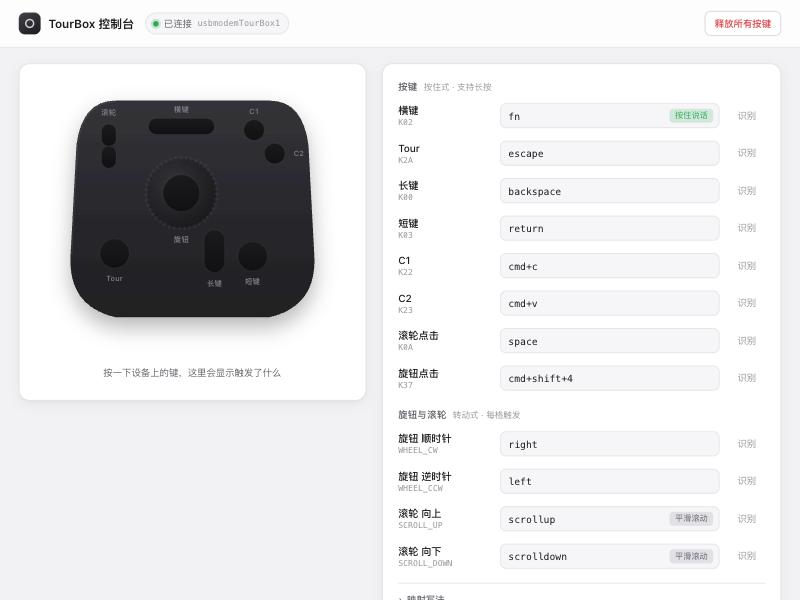
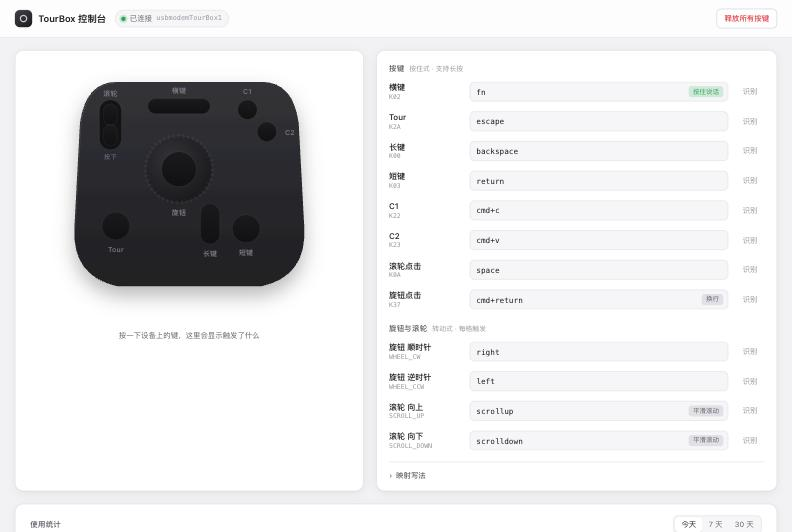
README：写清默认键位方案及每个键这么设的理由；按键统计章节改为「找出最值得映射的按键」，附截图与推荐用法

diff --git a/README.md b/README.md
@@ -15,7 +15,7 @@
 - **按住连发**：映射成单键（如 `backspace`）后，按住会像真键盘一样连续触发
 - **触控板式平滑滚动**：滚轮按「格」计算距离，按像素逐帧输出，带手势相位和惯性
 - **本地可视化控制台** `http://127.0.0.1:8777/`：设备俯视图、实时按键高亮、点一下就能改映射、「识别」向导
-- **按键统计**：每天按了哪些快捷键、功能键，键盘和 TourBox 分开计数，控制台里看排行和 24 小时分布，并标出「常用但 TourBox 上还没有」的组合，方便决定该映射什么（见下文「按键统计」）
+- **按键统计**：用自己的真实数据看出哪些按键用得最多、最应该映射到 TourBox 上。键盘和 TourBox 分开计数，标出「常用但还没映射」的操作和闲置的实体键（见下文「按键统计」）
 - **防卡键**：串口断开、进程退出、长时间收不到松开信号时会自动松开所有按键；控制台里也有「释放所有按键」按钮
 - **常驻运行**：作为 launchd 登录项运行，崩溃后自动拉起；设备拔掉再插上会自动重连
 
@@ -114,19 +114,28 @@ python3 tourboxd.py       # 无界面
 
 > 旋钮和滚轮转动时设备只发脉冲、不发「松开」，所以别把它们映射成 `fn` 这类按住式按键。
 
-### 默认键位
+### 默认键位（预设方案）
 
-| 位置 | 字节 | 默认映射 |
-|---|---|---|
-| 横键 | `K02` | `fn`（按住说话） |
-| 长键 | `K00` | `backspace` |
-| 短键 | `K03` | `return` |
-| C1 / C2 | `K22` / `K23` | `cmd+c` / `cmd+v` |
-| Tour | `K2A` | `escape` |
-| 滚轮点击 | `K0A` | `space` |
-| 旋钮点击 | `K37` | `cmd+return`（输入框里换行：微信、飞书、ChatGPT 等「回车发送」的输入框） |
-| 旋钮 顺/逆 | `WHEEL_CW` / `WHEEL_CCW` | `right` / `left` |
-| 滚轮 上/下 | `SCROLL_UP` / `SCROLL_DOWN` | `scrollup` / `scrolldown` |
+这套预设的目标场景是：**一只手放在 TourBox 上，配合语音输入和 AI 对话框完成日常打字和浏览**。尽量让另一只手不用回到键盘上。
+
+| 位置 | 字节 | 默认映射 | 为什么这么设 |
+|---|---|---|---|
+| 横键 | `K02` | `fn`（按住说话） | 用得最多的动作，放在最宽、拇指最容易压住的键上；按住说话、松手结束，长时间按住也不费力 |
+| 长键 | `K00` | `backspace` | 说完话最常做的就是删掉识别错的字；长键面积大、好盲按，按住会像真键盘一样连续删除 |
+| 短键 | `K03` | `return` | 紧挨着长键，「删 → 确认 / 发送」是一组连贯动作，手指不用挪位置 |
+| 旋钮点击 | `K37` | `cmd+return` | 微信、飞书、ChatGPT、Claude 这类「回车发送」的输入框里，Cmd+回车 是换行。放在设备正中间，和短键的「回车发送」分开，不会误发 |
+| C1 / C2 | `K22` / `K23` | `cmd+c` / `cmd+v` | 复制粘贴几乎是所有人用得最多的快捷键；两个小圆键挨在一起，按位置一左一右、一前一后，好记 |
+| Tour | `K2A` | `escape` | 取消、关闭弹窗、退出全屏，都是 Esc；放在左下角，偶尔用、不容易误碰 |
+| 滚轮点击 | `K0A` | `space` | 看视频暂停 / 播放、网页翻页、输入法选第一个候选词，都是空格 |
+| 旋钮 顺/逆 | `WHEEL_CW` / `WHEEL_CCW` | `right` / `left` | 转旋钮移动光标，修改语音识别结果时比鼠标点更准；分频 4，转一下大约移动一格 |
+| 滚轮 上/下 | `SCROLL_UP` / `SCROLL_DOWN` | `scrollup` / `scrolldown` | 和鼠标滚轮直觉一致，按像素平滑滚动，手感接近触控板 |
+
+背后的取舍：
+
+- **高频动作放在大键和顺手的位置**：按住说话、删除、发送这三个动作占了日常操作的大头，所以给了横键、长键、短键
+- **不放「按一下就很难撤回」的操作**：比如 `cmd+w` 关窗口、`cmd+q` 退出，误碰代价太高
+- **旋钮和滚轮只放「转多了也没关系」的动作**：它们只发脉冲、没有松开信号，不适合放按住式按键
+- **这只是起点**：每个人的习惯不一样，用一周「按键统计」之后，按自己的数据调整最合适（见下文）
 
 ### 其他可调参数（`config.json`）
 
@@ -140,9 +149,26 @@ python3 tourboxd.py       # 无界面
 | `repeat_delay` / `repeat_interval` | 0.42 / 0.032 | 按住连发的延迟和间隔（秒） |
 | `stats` | true | 按键统计开关 |
 
-## 按键统计
+## 按键统计：找出最值得映射到 TourBox 的按键
 
-驱动在后台用一个**只读**的事件监听（不拦截、不修改任何按键）统计你每天按了什么，控制台底部「使用统计」可以按今天 / 7 天 / 30 天查看。
+TourBox 只有 12 个控件，放什么最划算，不该靠感觉猜。网上也没有靠谱的「大家最常用哪些键」的公开数据，况且每个人差别很大：经常用语音输入、天天在 AI 对话框里来回发消息的人，和写代码、修图的人，高频按键完全不一样。
+
+所以驱动内置了按键统计，**用你自己的真实数据告诉你哪些键用得最多、最应该放到设备上**。控制台底部「使用统计」可以按今天 / 7 天 / 30 天查看：
+
+| 区域 | 能看出什么 |
+|---|---|
+| 顶部数字 | 总按键数、快捷键 / 功能键、普通打字、其中 TourBox 按的有多少 |
+| 快捷键排行 | 用得最多的快捷键和功能键。灰色是键盘按的，蓝色是 TourBox 按的。已经在 TourBox 上的标「已映射」，**常用但还没映射的标「可映射」**，排在前面又标「可映射」的就是最值得放上去的 |
+| TourBox 按键 | 每个实体键用了几次、现在映射成什么。**次数很少的键就是闲置位**，可以换成排行里的热门操作 |
+| 24 小时分布 | 一天里什么时间段按键最多 |
+
+![使用统计](docs/stats.jpg)
+
+推荐用法：正常用一周 → 打开「7 天」→ 把排行里靠前、标着「可映射」的操作，换到「TourBox 按键」里次数最少的那个键上。
+
+统计的实现和隐私：
+
+- 驱动在后台用一个**只读**的事件监听统计按键，不拦截、也不修改任何按键
 
 - **只记次数，不记内容**：`cmd+c`、`backspace`、`return` 这类快捷键和功能键按标签计数；普通打字（字母、数字、符号，含 Shift）只累加成一个「打字」总数，不记录具体是哪个字母，也不记顺序，所以从统计文件里还原不出你打过的字
 - 密码框会开启系统的「安全输入」，那期间系统本来就不让任何程序看到按键
